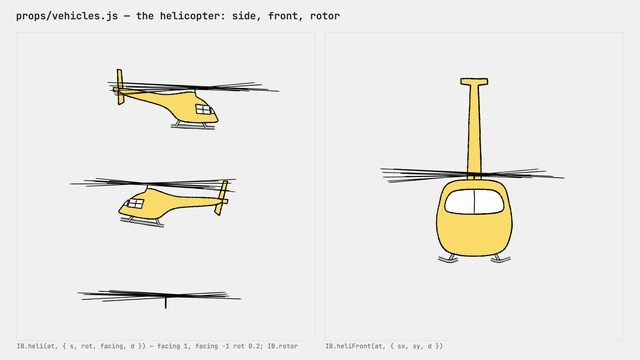
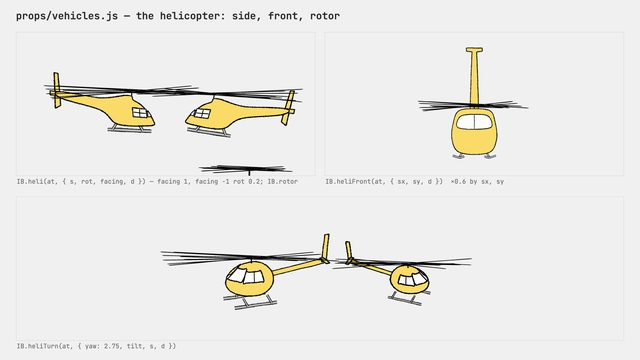
fix: 헬리콥터가 비스듬한 각도를 제 그림으로 가짐 (IB.heliTurn)
계획 4-3의 셋째 약점이다. 원본은 날아드는 동안 기체를 3/4 각도에서 그린다. 우리 kit에는 옆모습과 정면 두 장뿐이었다(vehicles.js의 `성진:` 주석).
- 그래서 그 사이 각도는 옆모습을 돌리고 줄여 썼고, 멀어지는 그림들은 코를 박고 떨어지는 것처럼 읽혔다.
- 이제 `IB.heliTurn`이 그린다:
  - 조종석(달걀 모양), 가늘어지는 꼬리 붐과 날개, 스키드 둘을 입체 점으로 짓는다.
  - yaw(0 옆모습 오른쪽, PI/2 정면, PI 옆모습 왼쪽)와 내려다보는 tilt로 투영한다.
  - 먼 조각부터 같은 붓펜으로 그린다. 조종석 윤곽은 투영한 점들의 볼록 껍질이다.
  - 앞유리는 코가 렌즈를 향할 때만, 옆 창은 렌즈 쪽 옆면에만 보인다.
- `IB.heliDrawing`이 `['turn', x, y, s, yaw, rot, tilt]` 행을 받는다.
- `heli.MOVE.flyIn`의 비스듬한 그림 여덟 장을 원본 프레임에 맞춰 바꿨다:
  - 크게 지나가는 2·4: 코가 왼쪽 앞, yaw 2.8–2.85
  - 멀어지는 10–20: 코가 오른쪽 앞, yaw 0.95→0.58, 꼬리가 왼쪽 위로
- 버린 대안: 옆모습과 정면을 sx로 눌러 섞기. 붐의 방향이 각도에 따라 바뀌지 않는다.
- 견본 props/vehicles-heli에 회전 칸을 더했다. 작아진 칸에 맞춰 칸 배치도 고쳤다.

확인:
- capture.py --compare를 원본 10–30프레임과 대조했다(out/ibm-rig/city/heli2.jpg). 원본의 3/4 각도와 붐 방향이 같은 쪽으로 읽힌다.
- 원본이 기체에 그린 눈과 글자는 빼 두었다(공개 저장소, 내용물이 아니라 룩만 가져온다).
- check_pure 3/3, test_kit ok.

Claude-Session: https://claude.ai/code/session_01SxpfC2T1LyEk5ytvqY9P1D

diff --git a/IBM/kit/props/vehicles.js b/IBM/kit/props/vehicles.js
@@ -131,7 +131,6 @@
   };
 
   /* heli(ctx, at, opts) — the yellow helicopter seen from the side, nose right, drawn about the centre of its cabin at `at`: s scales it, rot tips it, facing -1 flips it nose left (and -1.3 also stretches it: the smear drawing it enters on), d is the drawing number (re-rolls the rotor). The rotor does not tip with the body: 85% of the body's turn is taken back out about the mast. Line width thins with the square root of the scale. The reference paints a brand mark and a word on the cabin: left out. (establish/city-stadium-flyin). */
-  // 성진: only a side view and a front view exist, so the oblique drawings of a turn are the side view scaled and rotated. Draw the in-between angles in the upgrade round (plan 4-3).
   IB.heli = (ctx, [x, y], o = {}) => {
     const { s = 1, rot = 0, facing = 1, d = 0 } = o;
     ctx.save();
@@ -169,16 +168,63 @@
     IB.rotor(ctx, [x, y - 132 * sy], { span: 300 * sx, lw: 1.6, d });
   };
 
+  /* heliTurn(ctx, at, opts) — the same craft at any angle between the side and the front, for the drawings of a turn: it is built as a few solid parts (an egg of a cabin, a tapering boom with its fin, two skids) and projected, then drawn with the same brush pen. yaw 0 is the side view nose right, PI / 2 nose to the lens, PI side view nose left; the camera looks down at it by `tilt` rad (0.35). `at` is the cabin's centre, s its scale (1: cabin 156 px long, as IB.heli). The near side window shows only on the side that faces the lens, the windscreen only while the nose does. */
+  IB.heliTurn = (ctx, [x, y], o = {}) => {
+    const { s = 1, yaw = Math.PI / 4, tilt = 0.35, d = 0, seed = 640 } = o, c = Math.cos(yaw), sn = Math.sin(yaw), ce = Math.cos(tilt), se = Math.sin(tilt);
+    // body coordinates: x forward, y to the craft's left, z up. Depth (toward the lens) is the rotated y; nearer points sit lower on screen
+    const P = ([px, py, pz]) => { const X = px * c - py * sn, D = px * sn + py * c; return [x + s * X, y + s * (-pz * ce + D * se)]; }, depth = ([px, py]) => px * sn + py * c;
+    const lw = 2.4 / Math.sqrt(s), RX = 78, RY = 52, RZ = 56;
+    const hull = (pts) => { pts = pts.slice().sort((a, b) => a[0] - b[0] || a[1] - b[1]); const cr = (o2, a, b) => (a[0] - o2[0]) * (b[1] - o2[1]) - (a[1] - o2[1]) * (b[0] - o2[0]); const lo = [], up = []; for (const p of pts) { while (lo.length > 1 && cr(lo[lo.length - 2], lo[lo.length - 1], p) <= 0) lo.pop(); lo.push(p); } for (const p of pts.slice().reverse()) { while (up.length > 1 && cr(up[up.length - 2], up[up.length - 1], p) <= 0) up.pop(); up.push(p); } return lo.slice(0, -1).concat(up.slice(0, -1)); };
+    const egg = (u, v) => [RX * Math.cos(v) * Math.cos(u) * (Math.cos(u) > 0 ? 1.12 : 0.8), RY * Math.cos(v) * Math.sin(u), RZ * Math.sin(v) * (Math.sin(v) < 0 ? 0.85 : 1)];   // the cabin: a longer nose, shorter behind, a flatter belly   // the cabin: rounder at the nose, a little shorter behind
+    const parts = [];
+    // boom, fin, stabiliser
+    const boom = [[-58, 0, 12], [-150, 0, 22], [-232, 0, 30]];
+    parts.push([depth([-150, 0]), () => {
+      IB.tube(ctx, boom.map(P), { w: 15 * s, edge: lw, fill: C.yellow, seed });
+      IB.ink(ctx, [[-222, 0, 26], [-236, 0, 26], [-246, 0, 112], [-232, 0, 112]].map(P), { closed: true, smooth: false, fill: C.yellow, w: lw, seed: seed + 1 });
+      IB.ink(ctx, [[-238, -26, 30], [-226, -26, 30], [-226, 26, 30], [-238, 26, 30]].map(P), { closed: true, smooth: false, fill: C.yellow, w: lw, seed: seed + 2 });
+    }]);
+    // skids: the far one first
+    for (const side of [-1, 1]) parts.push([depth([0, side * 44]) - 1, () => {
+      IB.tube(ctx, [[-58, side * 44, -64], [78, side * 44, -64]].map(P), { w: 8 * s, edge: 1.8, fill: '#b9b9b9', seed: seed + 3 + side });
+      for (const lx of [-34, 44]) IB.tube(ctx, [[lx, side * 26, -44], [lx - 8, side * 44, -64]].map(P), { w: 6 * s, edge: 1.6, fill: '#b9b9b9', seed: seed + 5 + side + lx });
+    }]);
+    // cabin, its windows, mast and rotor
+    parts.push([depth([0, 0]), () => {
+      const pts = []; for (let i = 0; i < 28; i++) for (let j = -6; j <= 6; j++) pts.push(P(egg((i / 28) * Math.PI * 2, (j / 6) * (Math.PI / 2) * 0.98)));
+      IB.ink(ctx, hull(pts), { closed: true, fill: C.yellow, w: lw, seed: seed + 9 });
+      // windscreen: the front of the egg above its waist, while the nose faces the lens
+      if (sn > 0.12) {
+        const ws = []; for (let i = 0; i <= 8; i++) ws.push(egg(-0.9 + (i / 8) * 1.8, 0.95)); for (let i = 8; i >= 0; i--) ws.push(egg(-0.9 + (i / 8) * 1.8, 0.28));
+        IB.ink(ctx, ws.map(P), { closed: true, fill: C.paper, w: lw, seed: seed + 10 });
+        IB.ink(ctx, [egg(0, 0.97), egg(0, 0.26)].map(P), { w: lw * 0.8, seed: seed + 11 });
+      }
+      // side window on the side that faces the lens
+      const side = c >= 0 ? 1 : -1;   // the craft's left (y > 0) faces the lens while cos(yaw) > 0
+      if (Math.abs(c) > 0.15) {
+        const sw = []; for (let i = 0; i <= 6; i++) sw.push(egg(side * (0.95 + (i / 6) * 0.85), 0.8)); for (let i = 6; i >= 0; i--) sw.push(egg(side * (0.95 + (i / 6) * 0.85), 0.2));
+        IB.ink(ctx, sw.map(P), { closed: true, fill: C.paper, w: lw, seed: seed + 12 });
+        IB.ink(ctx, [egg(side * 1.37, 0.82), egg(side * 1.37, 0.18)].map(P), { w: lw * 0.8, seed: seed + 13 });
+      }
+      IB.seg(ctx, ...P([6, 0, RZ - 2]), ...P([6, 0, RZ + 14]), { w: lw * 1.4, seed: seed + 14 });
+      IB.rotor(ctx, P([6, 0, RZ + 16]), { span: 290 * s, lw: 1.6 * Math.sqrt(s), d });
+    }]);
+    ctx.save();
+    parts.sort((a, b) => a[0] - b[0]).forEach(([, draw]) => draw());
+    ctx.restore();
+  };
+
   /* heli.MOVE.flyIn — the reference's fly-in, nineteen drawings on twos as [frame, drawing], never hovering; each drawing is [x, y of the centre of its yellow shape, scale, rotation, facing (negative = nose left; -1.3 also stretches it into a smear)], or ['front', x, y, sx, sy] for the two drawings where it faces the lens. Measured on the reference: position = centroid of its yellow pixels, scale = square root of their area against this drawing's own at scale 1 (11631 px), rotation = the principal axis of that area. The first three are larger than the frame and cut off by it, so their numbers are fitted by eye. It comes past the lens from the lower right, swings round to face us with its tail up for two drawings, and then never hovers: it keeps shrinking (1.48 to 0.86) and levelling out (0.69 to 0.01 rad) while it drifts 136 px left and 76 px back right, flying away toward the stadium. */
   IB.heli.MOVE = { flyIn: [
-    [0, [2090, 570, 4.6, -0.2, -1.3]], [2, [1400, 640, 4.4, -0.15, -1]], [4, [1200, 500, 3.7, -0.2, -1]],
+    [0, [2090, 570, 4.6, -0.2, -1.3]], [2, ['turn', 1070, 720, 2.9, 2.8, -0.1, 0.45]], [4, ['turn', 810, 720, 2.2, 2.85, -0.12, 0.45]],
     [6, ['front', 660, 628, 1, 1]], [8, ['front', 549, 620, 0.67, 0.87]],
-    [10, [414, 581, 1.48, 0.69, 1]], [12, [339, 567, 1.43, 0.39, 1]], [14, [315, 567, 1.37, 0.29, 1]], [16, [293, 566, 1.27, 0.18, 1]], [18, [283, 565, 1.23, 0.14, 1]], [20, [278, 561, 1.18, 0.09, 1]],
+    [10, ['turn', 430, 600, 1.2, 0.95, 0.25, 0.6]], [12, ['turn', 360, 590, 1.15, 0.85, 0.15, 0.55]], [14, ['turn', 335, 588, 1.1, 0.78, 0.1, 0.5]], [16, ['turn', 312, 586, 1.04, 0.7, 0.06, 0.48]], [18, ['turn', 302, 584, 1.0, 0.64, 0.04, 0.45]], [20, ['turn', 296, 580, 0.96, 0.58, 0.03, 0.42]],
     [22, [285, 560, 1.1, 0.085, 1]], [24, [288, 559, 1.1, 0.06, 1]], [26, [298, 558, 1.025, 0.04, 1]], [28, [304, 558, 1.0, 0.025, 1]], [30, [320, 557, 0.95, 0.02, 1]], [32, [332, 555, 0.93, 0.01, 1]], [34, [338, 555, 0.91, 0.01, 1]], [36, [354, 556, 0.86, 0.01, 1]],
   ] };
   /* heliDrawing(ctx, row, d) — draw one row of a flight table like heli.MOVE.flyIn as drawing number d: a side-view row is placed by the centre of its yellow shape (which sits (-47.9, -14.1) x scale from the craft's own origin), a 'front' row by its cabin. (establish/city-stadium-flyin). */
   IB.heliDrawing = (ctx, k, d) => {
     if (k[0] === 'front') return IB.heliFront(ctx, [k[1], k[2]], { sx: k[3], sy: k[4], d });
+    if (k[0] === 'turn') { const [, tx, ty, ts, yaw, rot = 0, tilt = 0.35] = k; ctx.save(); ctx.translate(tx, ty); ctx.rotate(rot); IB.heliTurn(ctx, [0, 0], { s: ts, yaw, tilt, d }); ctx.restore(); return; }
     const [x, y, sc, rot, facing] = k, c = Math.cos(rot), sn = Math.sin(rot), ox = -47.9 * sc * facing, oy = -14.1 * sc;   // (ox, oy): where the yellow shape's centroid sits relative to the craft's own origin
     IB.heli(ctx, [x - (ox * c - oy * sn), y - (ox * sn + oy * c)], { s: sc, rot, facing, d });
   };

diff --git a/IBM/parts/props/vehicles-heli.html b/IBM/parts/props/vehicles-heli.html
@@ -11,7 +11,7 @@
 <script src="../../kit/props/vehicles.js"></script>
 <script src="../sample.js"></script>
 <script>
-/* 소품 견본: 탈것, 노란 헬리콥터의 옆모습 IB.heli와 정면 IB.heliFront, 그리고 회전날개 IB.rotor. 날개는 가는 직선 아홉 개의 부채이고 그림(d)마다 새로 굴린다: 2프레임마다 d를 올리면 돈다. 몸통이 기울어도 날개는 거의 수평이다(몸통 회전의 85%를 돛대에서 되돌림). 옆모습은 s로 키우고 rot으로 기울이고 facing -1로 뒤집으며(-1.3은 들어올 때의 스미어 한 장), 선 굵기는 배율의 제곱근으로 가늘어진다. 정면은 선회 도중 두 장에만 쓰고 sx·sy로 눌러 돌아선다. 비스듬한 각도는 아직 없어서 옆모습을 돌리고 줄여 쓴다. 원본의 로고와 글자는 빠져 있다. 원본 비행 경로는 props/vehicles-heli-flyin에 있다. */
+/* 소품 견본: 탈것, 노란 헬리콥터의 옆모습 IB.heli와 정면 IB.heliFront, 그리고 회전날개 IB.rotor. 날개는 가는 직선 아홉 개의 부채이고 그림(d)마다 새로 굴린다: 2프레임마다 d를 올리면 돈다. 몸통이 기울어도 날개는 거의 수평이다(몸통 회전의 85%를 돛대에서 되돌림). 옆모습은 s로 키우고 rot으로 기울이고 facing -1로 뒤집으며(-1.3은 들어올 때의 스미어 한 장), 선 굵기는 배율의 제곱근으로 가늘어진다. 정면은 선회 도중 두 장에만 쓰고 sx·sy로 눌러 돌아선다. 그 사이의 비스듬한 각도는 IB.heliTurn이 그린다: 몸통을 입체 조각(달걀 모양 조종석, 가늘어지는 꼬리 붐과 날개, 스키드 둘)으로 짓고 yaw(0 옆모습 오른쪽, PI/2 정면, PI 옆모습 왼쪽)와 내려다보는 tilt로 투영해 같은 붓펜으로 그린다. 아래 칸은 yaw가 2프레임마다 한 장씩 도는 모습이다. 원본의 로고와 글자는 빠져 있다. 원본 비행 경로는 props/vehicles-heli-flyin에 있다. */
 MG.scene({
   title: 'props / vehicles-heli',
   duration: 3, ref: null, fps: 24, loop: true,
@@ -19,14 +19,17 @@ MG.scene({
   render(t, ctx) {
     IB.bg(ctx);
     SAMPLE.title(ctx, 'props/vehicles.js — the helicopter: side, front, rotor');
-    const d = Math.floor(IB.frame(t) / 2), c = SAMPLE.grid(2, 2), V = [0, 0, c[0][2], c[0][3]];
+    const d = Math.floor(IB.frame(t) / 2), c = SAMPLE.grid(4, 2), V = [0, 0, c[0][2], c[0][3]], wide = SAMPLE.span(c, 2, 3);
     SAMPLE.cell(ctx, c[0], V, () => {
-      IB.heli(ctx, [520, 230], { d });
-      IB.heli(ctx, [400, 520], { rot: 0.2, facing: -1, d: d + 5 });
-      IB.seg(ctx, 449, 830, 449, 790, { w: 3.4, seed: 1 });
-      IB.rotor(ctx, [449, 790], { span: 280, d: d + 9 });
+      IB.heli(ctx, [330, 240], { d });
+      IB.heli(ctx, [600, 250], { rot: 0.2, facing: -1, d: d + 5 });
+      IB.seg(ctx, 700, 440, 700, 410, { w: 3.4, seed: 1 });
+      IB.rotor(ctx, [700, 410], { span: 160, d: d + 9 });
     }, 'IB.heli(at, { s, rot, facing, d }) — facing 1, facing -1 rot 0.2; IB.rotor');
-    SAMPLE.cell(ctx, c[1], V, () => IB.heliFront(ctx, [449, 560], { d }), 'IB.heliFront(at, { sx, sy, d })');
+    SAMPLE.cell(ctx, c[1], V, () => IB.heliFront(ctx, [449, 300], { sx: 0.6, sy: 0.6, d }), 'IB.heliFront(at, { sx, sy, d })  ×0.6 by sx, sy');
+    // the turn: eight angles side to side, one per drawing on twos
+    const yaw = (Math.floor(IB.frame(t) / 2) % 9) * (Math.PI / 8);
+    SAMPLE.cell(ctx, wide, [0, 0, wide[2], wide[3]], () => { IB.heliTurn(ctx, [wide[2] / 2 - 200, 250], { yaw, d }); IB.heliTurn(ctx, [wide[2] / 2 + 260, 250], { yaw: Math.PI - yaw, tilt: 0.55, s: 0.8, d: d + 3 }); }, `IB.heliTurn(at, { yaw: ${yaw.toFixed(2)}, tilt, s, d })`);
   },
 });
 </script>

diff --git a/IBM/scenes/establish/city-stadium-flyin.html b/IBM/scenes/establish/city-stadium-flyin.html
@@ -16,7 +16,7 @@
 /* 화면을 가득 채운 흑백 선화 도시 한가운데 경기장이 있고, 노란 헬리콥터 한 대가 오른쪽 아래에서 렌즈 앞을 스치듯 들어와 꼬리를 치켜들고 돌아선 뒤 경기장 쪽으로 멀어진다. 전달하는 생각: 이제 벌어질 일의 장소를 한 장으로 알린다.
    Motion notes: 1.9 s. The drawing never moves and is far denser than any other family: line widths 1.5-4.5 px mixed, windows and trusses as texture, almost no fills, and every gap between buildings stuffed with cauliflower foliage (IB.clump). Colour only in two places, the yellow craft and the pale blue seating, plus one bright strip at the stadium's foot.
    The city is read off the reference frame on a 100 px grid: the stadium (a drum with a rounded shoulder, a band of nine V trusses over a band of nine crosses between posts, an opening whose far stand shows four ring lines above the dark bowl), 22 towers with their widths, heights and which third of each carries window marks (the reference leaves much of every tower white), the foreground blocks, clouds and birds. Foliage is placed by hand as ellipses and generated inside them (open strings of bumps about 24 px across over a blank fill), so its bumps are not the reference's; two foreground blocks have stepped roofs as in the reference (an L, a notch: IB.roofBlock with more than four points), the rest are four-point boxes.
-   The craft is the one moving thing, on twos (IB.heli.MOVE.flyIn, 19 drawings from frame 8): nothing for the first 0.33 s, then three drawings larger than the frame as it crosses in front of the lens (the first stretched 1.3x as a smear), two facing the lens with the boom rising behind the cabin, and from then on it never hovers: every drawing is smaller and more level than the last as it flies off toward the stadium, drifting 136 px left then 76 px back right. The rotor is a fan of straight strokes re-rolled on every drawing; it stays near level while the body tips. The craft's painted eye and lettering are left out. */
+   The craft is the one moving thing, on twos (IB.heli.MOVE.flyIn, 19 drawings from frame 8): nothing for the first 0.33 s, then three drawings larger than the frame as it crosses in front of the lens (the first stretched 1.3x as a smear, the next two seen three-quarter from the front with the nose to the left and the boom running back up and to the right: IB.heliTurn, yaw 2.8-2.85), two facing the lens with the boom rising behind the cabin, then three-quarter views with the nose to the right and the boom rising behind to the left, turning toward the side view as it goes (yaw 0.95 to 0.58), and from then on it never hovers: every drawing is smaller and more level than the last as it flies off toward the stadium, drifting 136 px left then 76 px back right. The rotor is a fan of straight strokes re-rolled on every drawing; it stays near level while the body tips. The craft's painted eye and lettering are left out. */
 const FLY = IB.play(IB.heli.MOVE.flyIn, 8);   // the craft's drawings, on twos from frame 8
 
 MG.scene({
